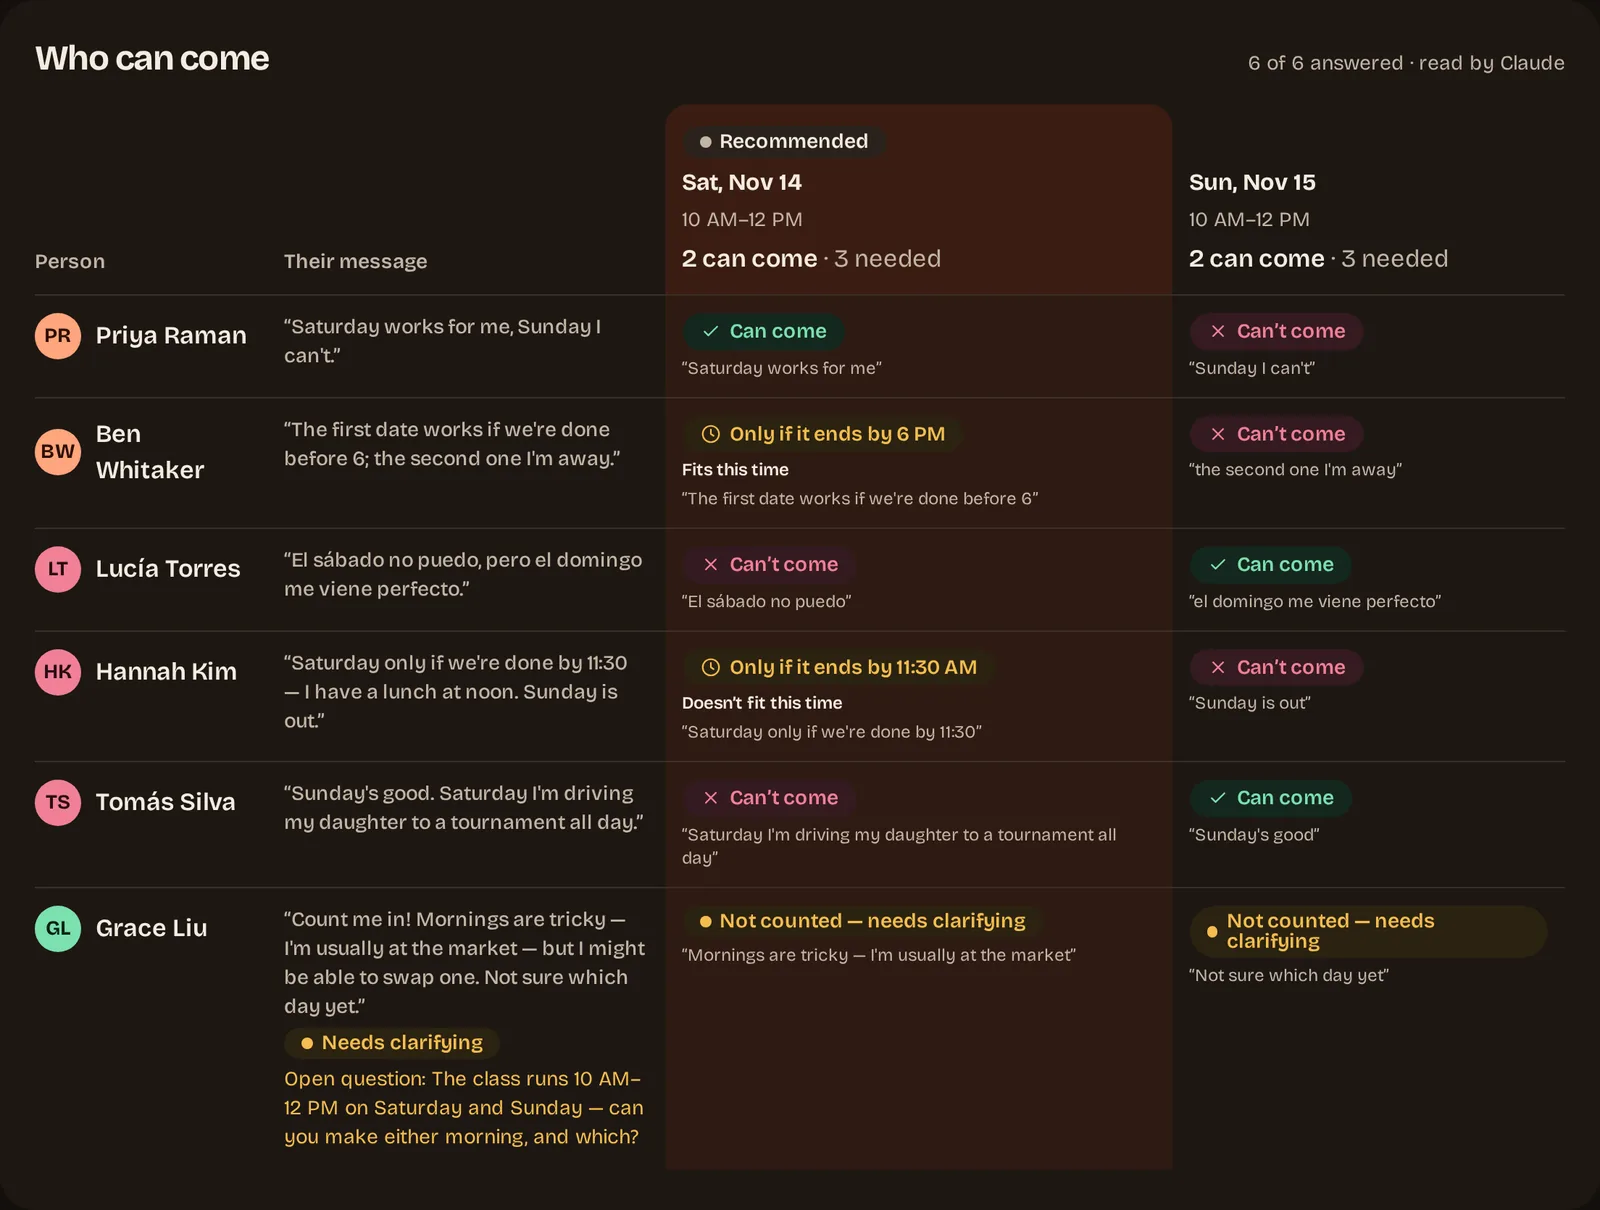
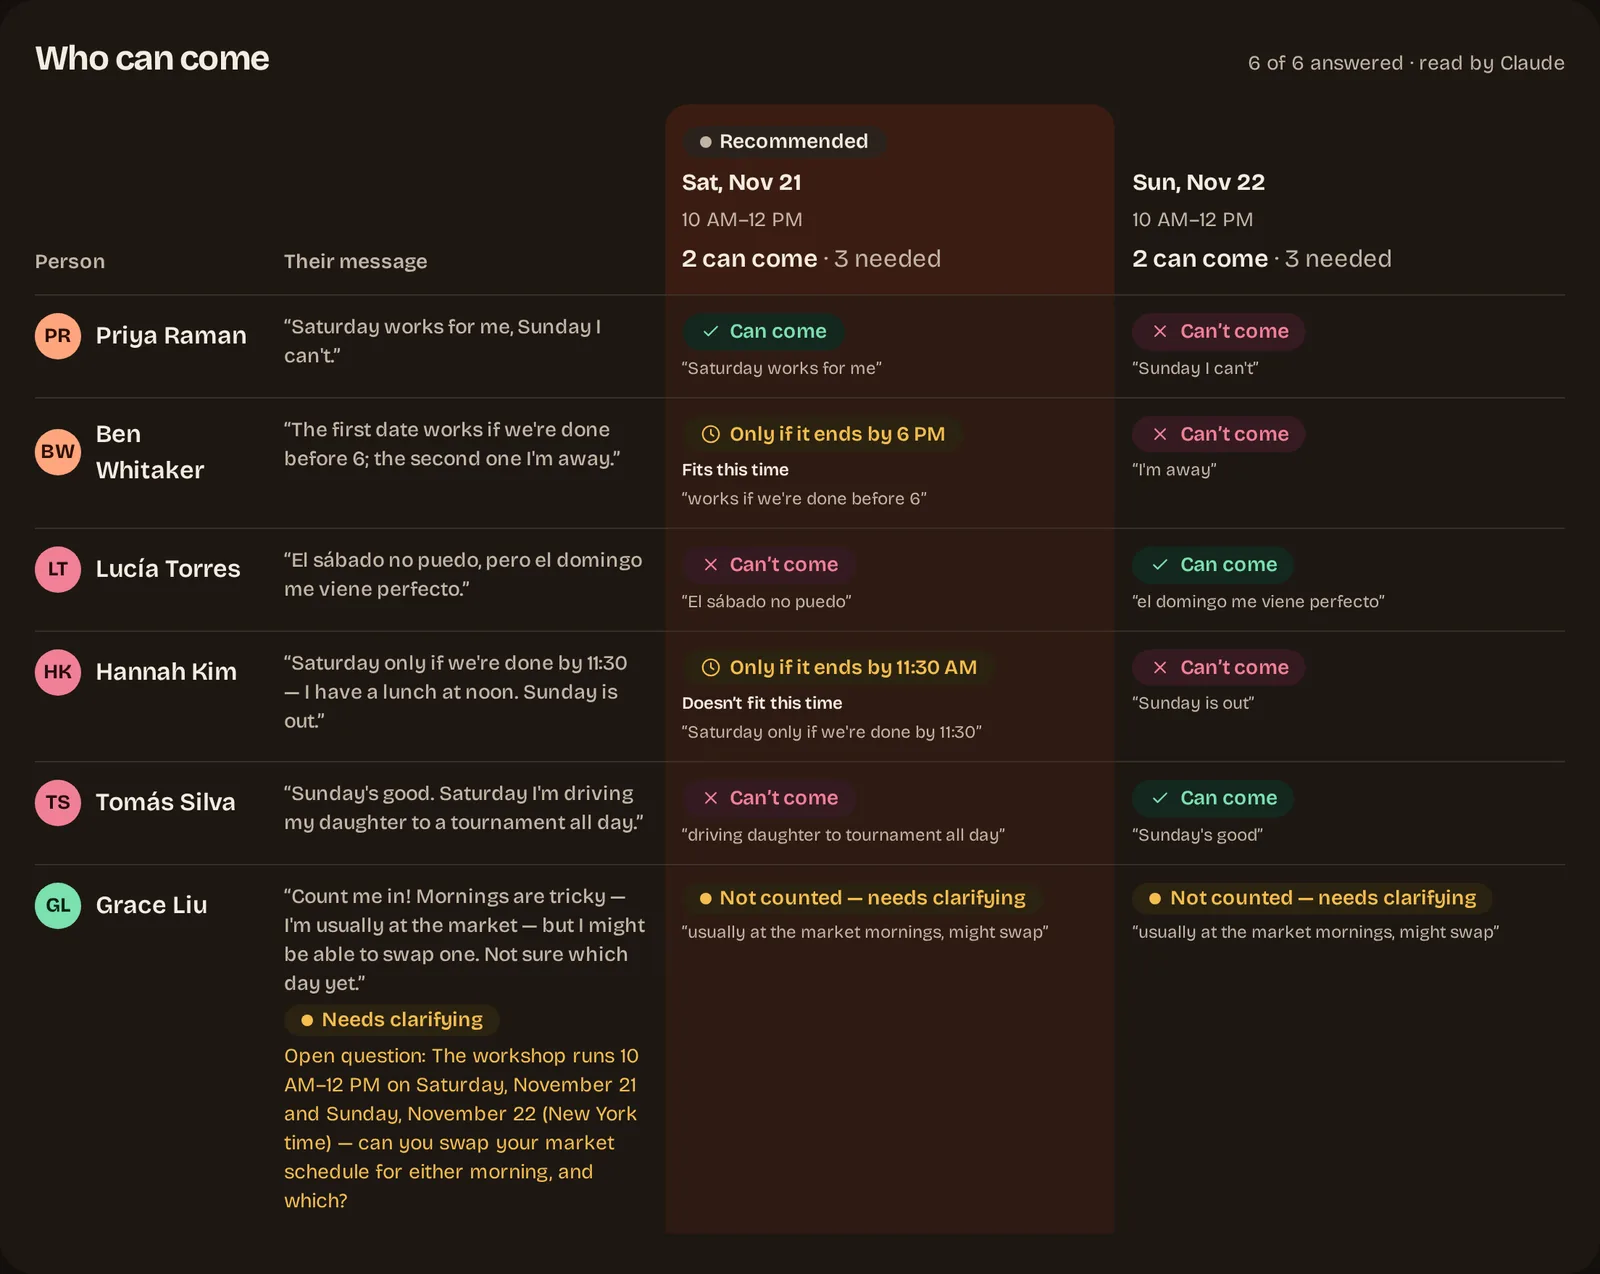
chore(web): recapture the landing screens with Claude on Bedrock
The shots and README images now carry Claude Sonnet 4.5's own readings,
question to Grace, explanation, nudge and draft, captured with
web/scripts/capture.mjs against a local demo server on Bedrock. The board
image is 1600x1274.

diff --git a/web/src/components/home/SeeItWork.tsx b/web/src/components/home/SeeItWork.tsx
@@ -65,7 +65,7 @@ export default function SeeItWork() {
               <img
                 src={board}
                 width={1600}
-                height={1210}
+                height={1274}
                 loading="lazy"
                 decoding="async"
                 alt="Iris’s board, Who can come: six people, their messages, and each answer read for Saturday and Sunday. Saturday is recommended with 2 of the 3 needed; Grace’s message needs clarifying."
